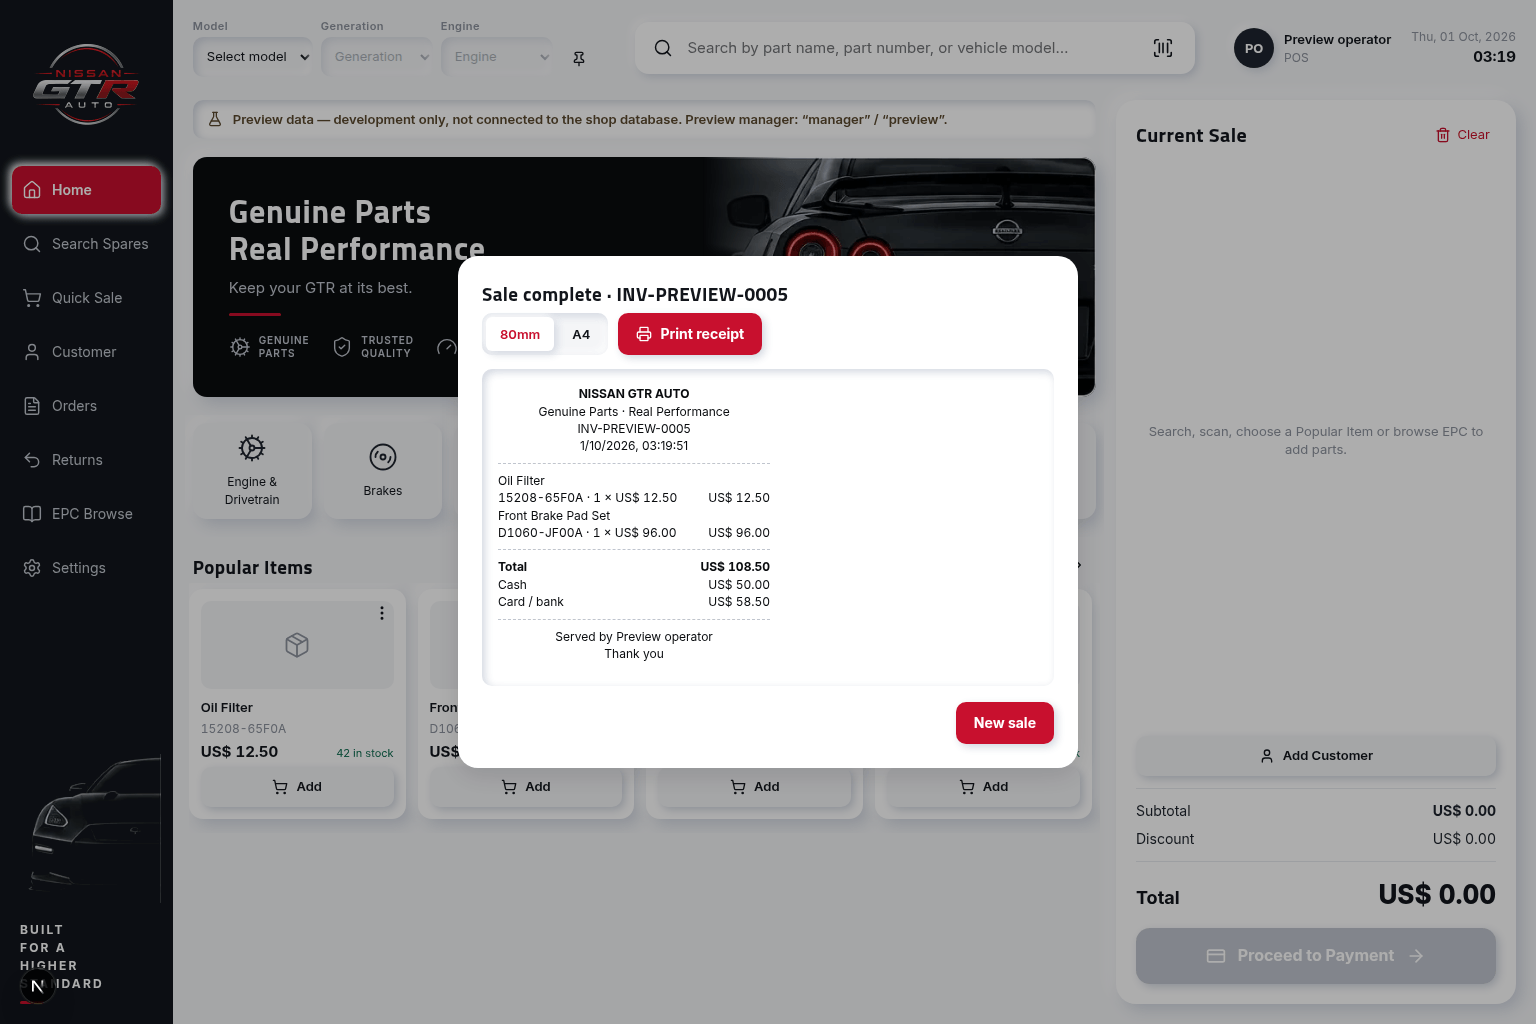
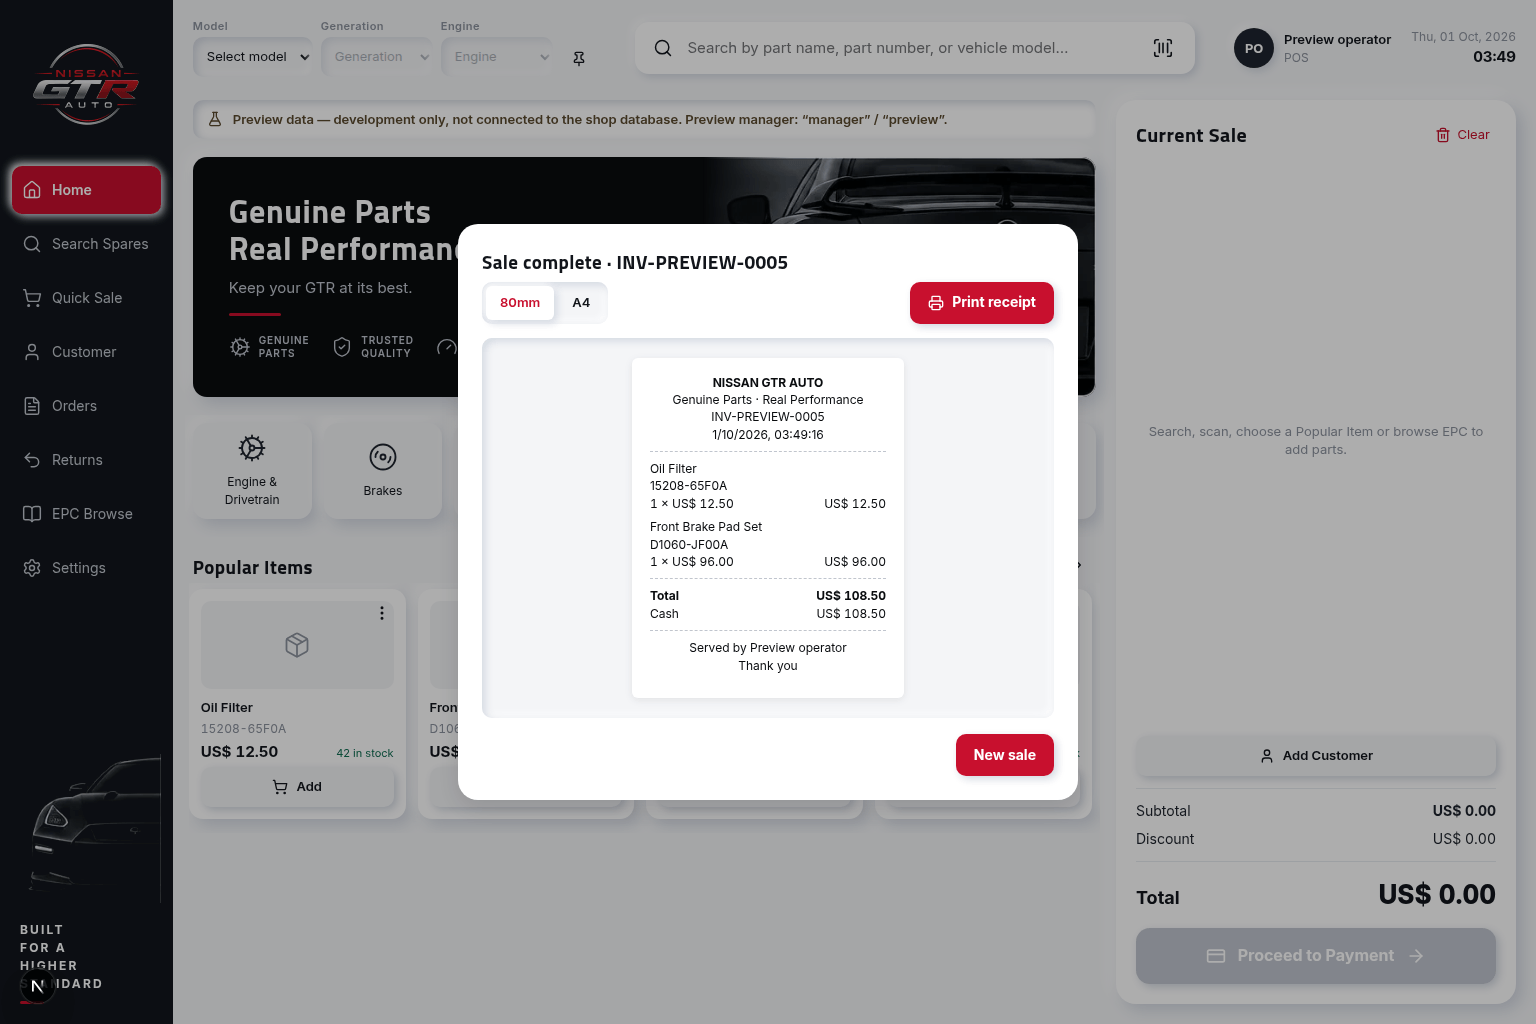
fix(web-pos): centre the receipt slip and stop amounts wrapping
The sale-complete dialog showed the 80 mm receipt pinned to the left of a
wide preview box, with the paper toggle and Print button bunched on the
left.

- Preview centres the receipt as a white paper slip on the canvas; A4
  fills the preview width
- Toolbar spreads paper toggle and Print receipt across the dialog
- Receipt lines: part number on its own line, qty x unit price and the
  line total on one row; amounts never break across lines on 80 mm paper
- Print output unchanged (print-only copy)

Claude-Session: https://claude.ai/code/session_01FvYTzMXQQjUhSMJGGXo1re

diff --git a/apps/web/components/pos/PosDialogs.tsx b/apps/web/components/pos/PosDialogs.tsx
@@ -155,11 +155,12 @@ export function ReceiptView({ receipt, paper }: { receipt: ReceiptDocument; pape
       {receipt.vehicleLabel ? <div>Vehicle: {receipt.vehicleLabel}</div> : null}
       <hr className={styles.receiptRule} />
       {receipt.lines.map((l, i) => (
-        <div key={`${l.oemPartNumber}-${i}`}>
+        <div key={`${l.oemPartNumber}-${i}`} style={{ marginBottom: 6 }}>
           <div>{l.name}</div>
+          <div>{l.oemPartNumber}</div>
           <div className={styles.receiptLine}>
-            <span>
-              {l.oemPartNumber} · {l.qty} × {formatMoney(l.unitPrice, receipt.currency)}
+            <span style={{ whiteSpace: "nowrap" }}>
+              {l.qty} × {formatMoney(l.unitPrice, receipt.currency)}
             </span>
             <span>{formatMoney(l.lineTotal, receipt.currency)}</span>
           </div>
@@ -224,7 +225,7 @@ export function PaymentDialog({
     const usedEcocash = receipt.tenders.some((t) => t.tender === "ecocash");
     return (
       <Modal title={`Sale complete · ${receipt.documentNumber ?? ""}`} onClose={() => { pos.clearReceipt(); onClose(); }} wide>
-        <div className={styles.row}>
+        <div className={styles.receiptToolbar}>
           <div className={styles.segment} role="group" aria-label="Paper">
             {(["80mm", "A4"] as const).map((p) => (
               <button key={p} type="button" className={`${styles.segmentItem} ${paper === p ? styles.segmentActive : ""}`} onClick={() => setPaper(p)}>

diff --git a/apps/web/components/pos/pos.module.css b/apps/web/components/pos/pos.module.css
@@ -1128,17 +1128,48 @@
 .receiptLine {
   display: flex;
   justify-content: space-between;
+  align-items: baseline;
   gap: 8px;
   font-variant-numeric: tabular-nums;
 }
+.receiptLine > span:first-child {
+  min-width: 0;
+}
+/* Amounts never break across lines, even on 80 mm paper. */
+.receiptLine > :last-child {
+  flex-shrink: 0;
+  white-space: nowrap;
+}
 .receiptPreview {
+  display: flex;
+  justify-content: center;
+  align-items: flex-start;
   margin-top: 14px;
-  padding: 16px;
+  padding: 20px;
   border-radius: var(--gtr-radius-sm);
-  background: var(--gtr-color-brand-white);
+  background: var(--gtr-color-neutral-canvas);
   box-shadow: var(--gtr-neu-pressed);
-  max-height: 320px;
+  max-height: min(420px, 55dvh);
   overflow-y: auto;
+}
+/* The slip sits centred on the preview like the paper it will print on. */
+.receiptPreview > .receipt {
+  flex: 0 0 auto;
+  padding: 16px 18px;
+  border-radius: var(--gtr-radius-xs);
+  background: var(--gtr-color-brand-white);
+  box-shadow: var(--gtr-elevation-2);
+}
+.receiptPreview > .receiptPaperA4 {
+  flex: 1 1 auto;
+  padding: 28px 32px;
+}
+.receiptToolbar {
+  display: flex;
+  flex-wrap: wrap;
+  align-items: center;
+  justify-content: space-between;
+  gap: 12px;
 }
 .printOnly {
   display: none;
